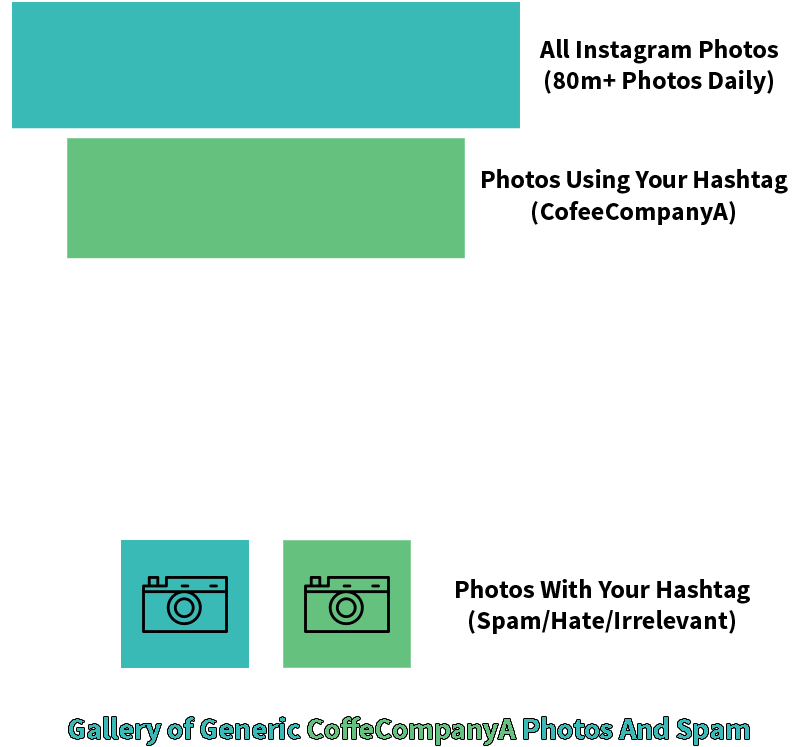
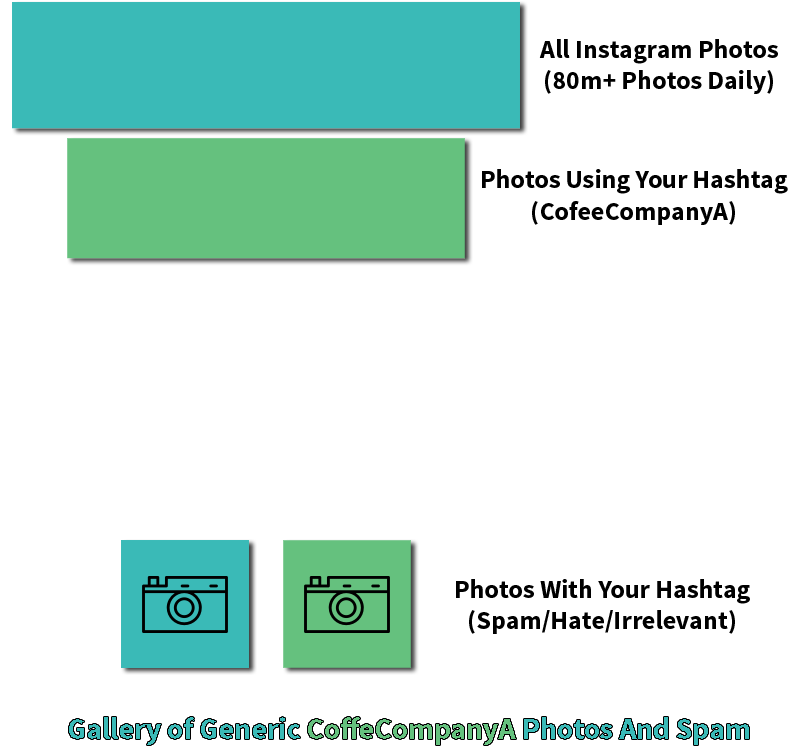
image dropshaddow

diff --git a/index.html b/index.html
@@ -198,7 +198,7 @@
                   the talking for you. By collecting, categorizing, and sorting photos from Instagram, your customers get reviews based on social peers.
                 </p>
                 <ul>
-                  <li>Relevant photos from customer's Instagram automatically stream to your page</li>
+                  <li>Relevant photos from customer's Instagram accounts automatically stream to your page</li>
                   <li>Customers are inspired by peers' images to buy</li>
                   <li>The brand engagement on page inspires new customers to post their own images</li>
                 </ul>
